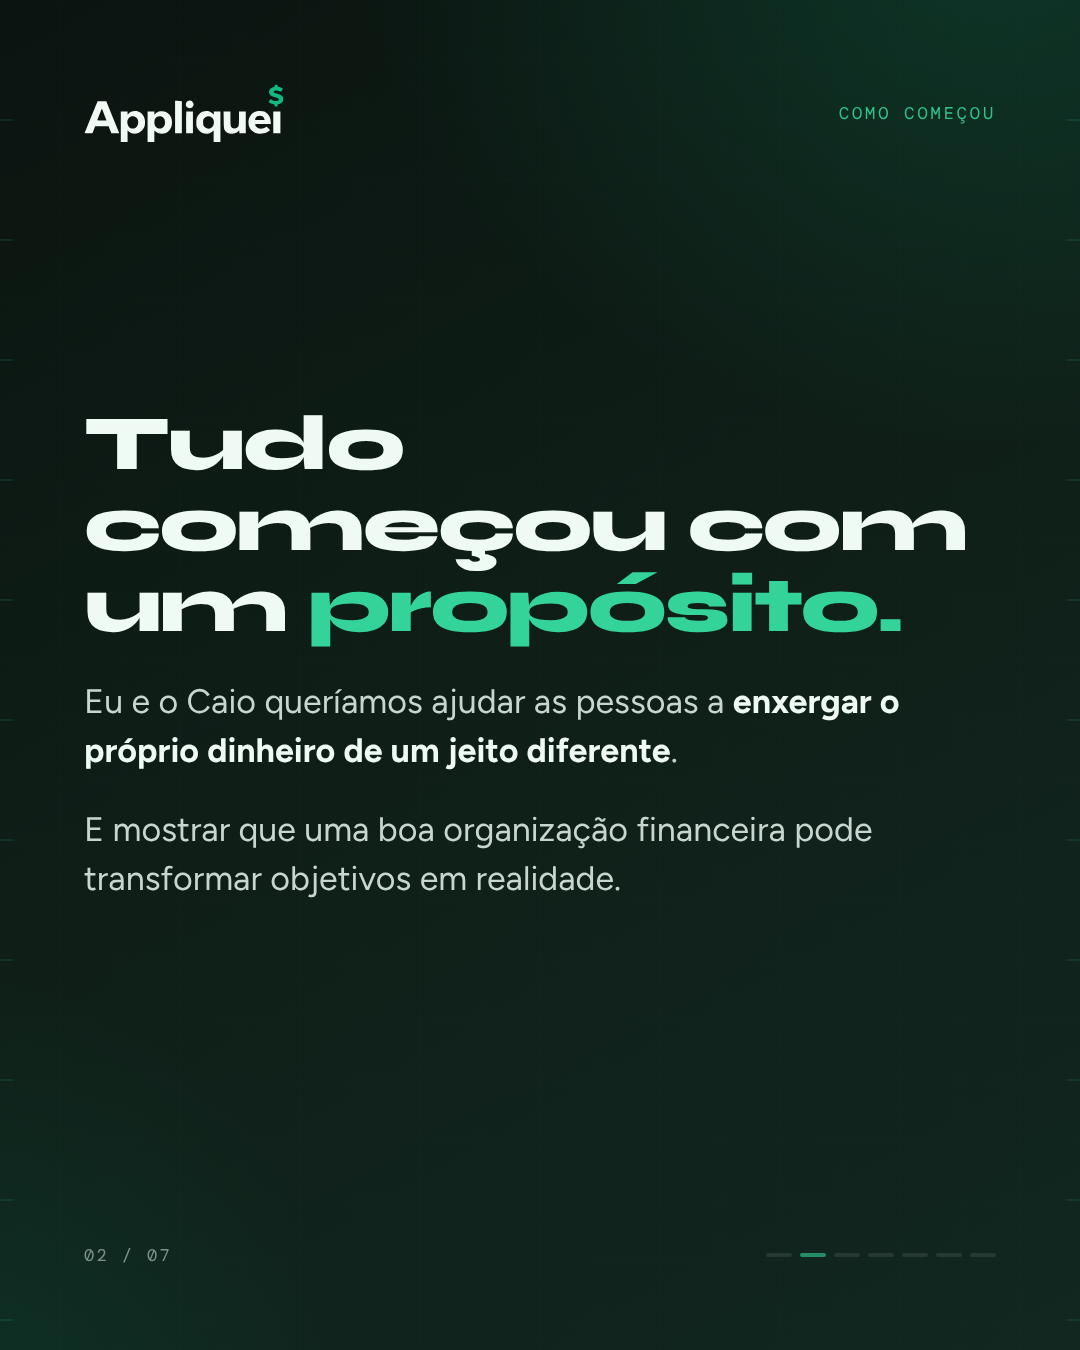
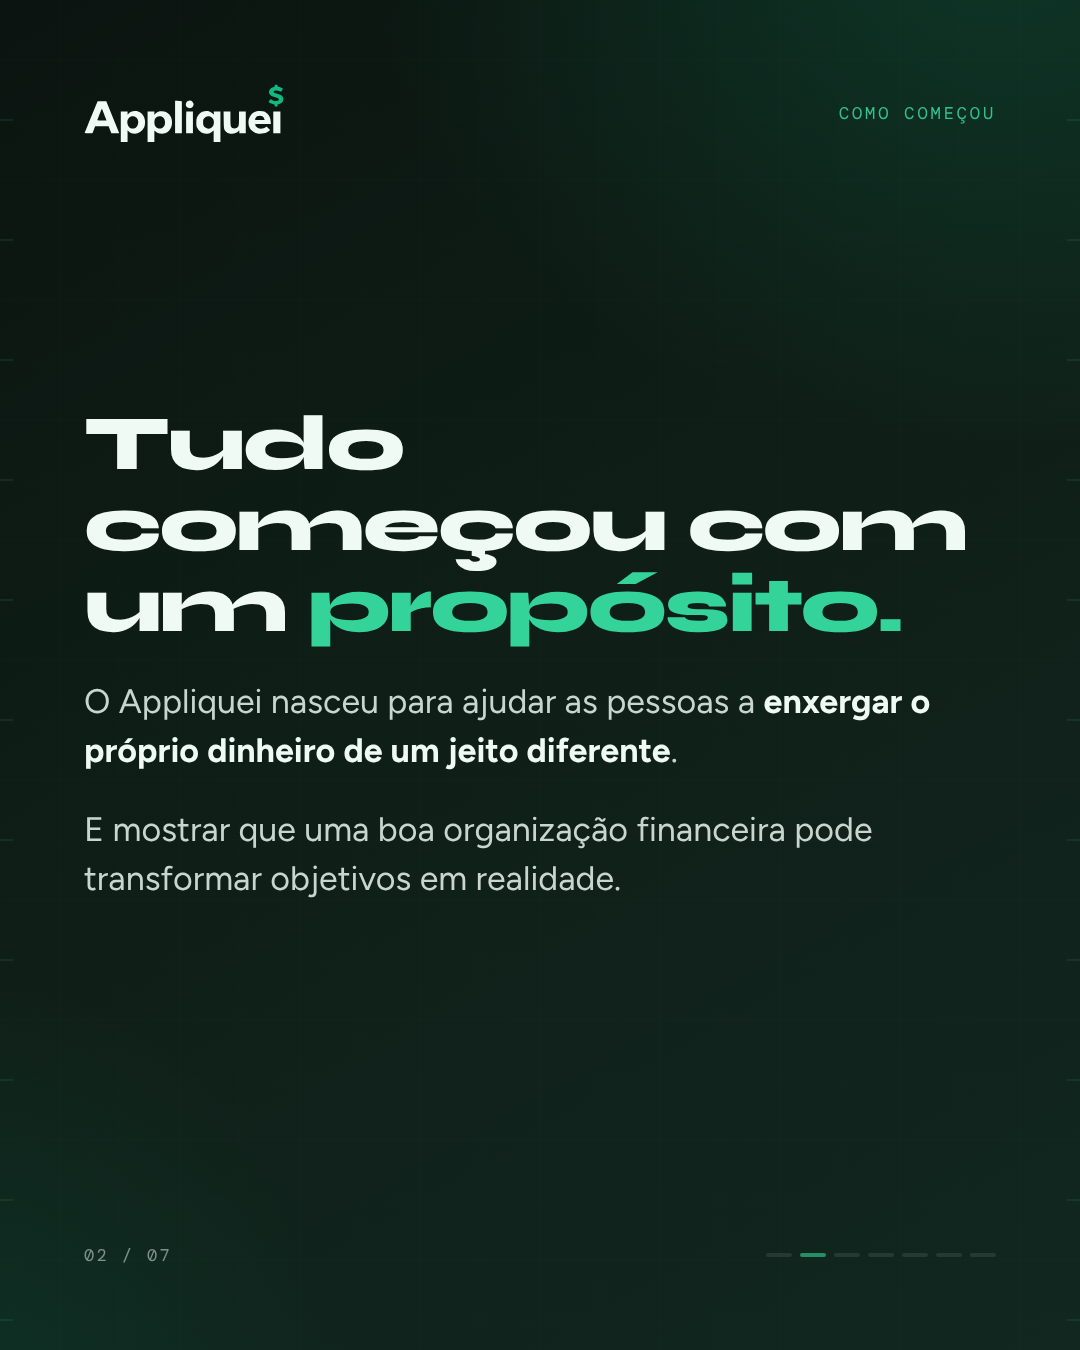
Carrossel na voz da empresa; regra de voz na skill de marketing
Claude-Session: https://claude.ai/code/session_01HRBDbPEuKrubxD4uxe9eVD

Changed region(s): [[0.0611, 0.4978, 0.8556, 0.5289]]

diff --git a/.claude/skills/marketing-saas/referencias/voz-e-compliance.md b/.claude/skills/marketing-saas/referencias/voz-e-compliance.md
@@ -4,6 +4,9 @@
 
 - **Direto e próximo.** Fala como um amigo que entende de dinheiro, não como
   banco. "Você", nunca "o usuário". Frases curtas.
+- **A voz é da empresa.** Fale como Appliquei ("o Appliquei nasceu…",
+  "queremos…"), nunca citando os fundadores pelo nome nem em primeira pessoa
+  do singular ("eu e o Caio"), mesmo que o texto de origem venha assim.
 - **Concreto.** Número, data, nome da tela. "Avisa no dia 20 que o saldo fura
   no dia 26", não "gestão inteligente das suas finanças".
 - **Calmo, não alarmista.** A dor é real, mas a peça termina em alívio e
